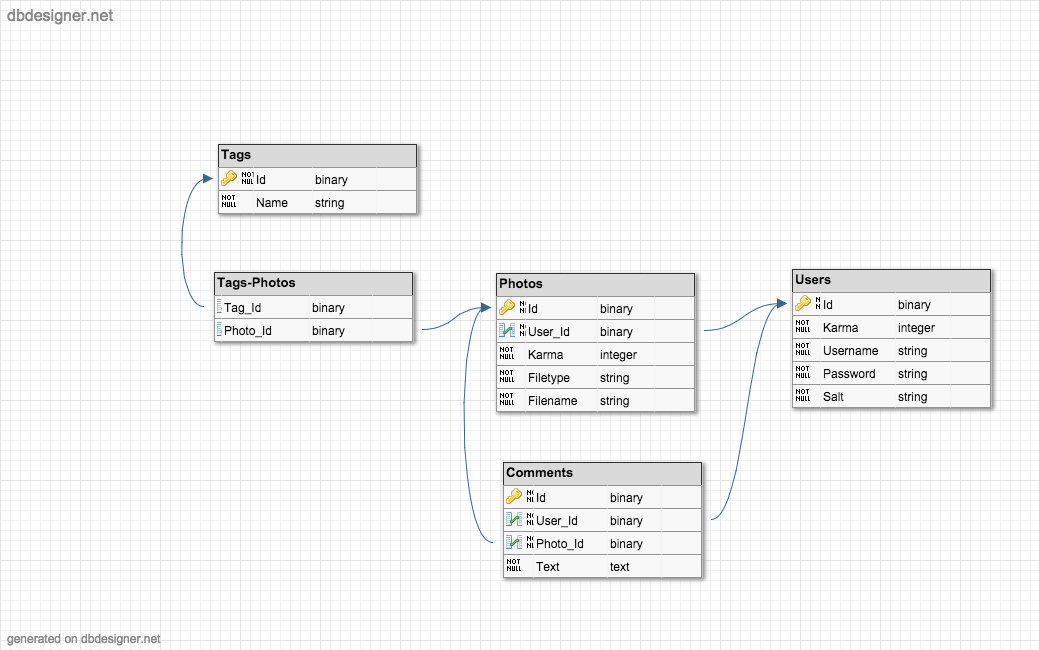
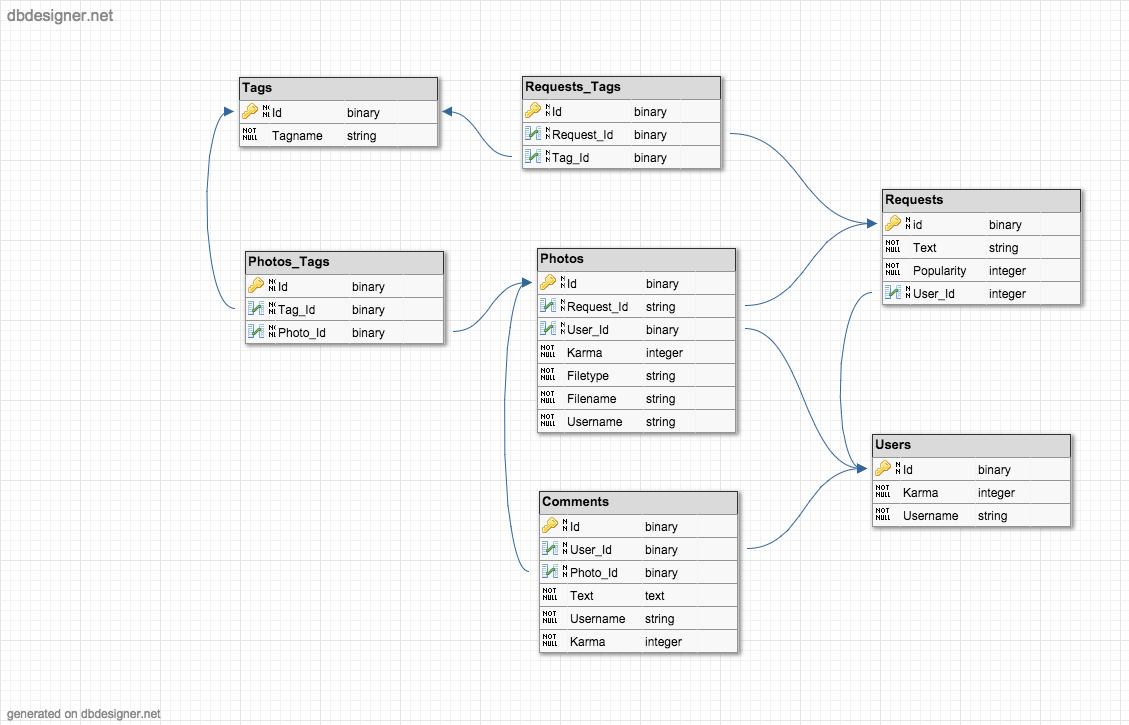
(feat) update database schema

diff --git a/server/db/config.js b/server/db/config.js
@@ -18,6 +18,7 @@ db.knex.schema.hasTable('users').then(function(exists) {
     db.knex.schema.createTable('users', function (user) {
       user.increments('id').primary();
       user.string('username', 100).unique();
+      user.integer('karma', 11);
       user.timestamps();
     }).then(function(table) {
       console.log('Created users table');
@@ -30,6 +31,7 @@ db.knex.schema.hasTable('requests').then(function(exists) {
     db.knex.schema.createTable('requests', function (request) {
       request.increments('id').primary();
       request.string('text', 255);
+      request.integer('popularity', 100);
       request.integer('user_id').unsigned().references('id').inTable('users');
       request.timestamps();
     }).then(function(table) {
@@ -45,11 +47,28 @@ db.knex.schema.hasTable('photos').then(function(exists) {
       photo.string('filename', 100);
       photo.string('filetype', 100);
       photo.string('username', 100);
+      photo.integer('karma', 11);
       photo.integer('user_id').unsigned().references('id').inTable('users');
       photo.integer('request_id').unsigned().references('id').inTable('requests');
       photo.timestamps();
     }).then(function(table) {
       console.log('Created photos table');
+    });
+  }
+});
+
+db.knex.schema.hasTable('comments').then(function(exists) {
+  if (!exists) {
+    db.knex.schema.createTable('comments', function (comment) {
+      comment.increments('id').primary();
+      comment.string('text', 255);
+      comment.string('username', 100);
+      comment.integer('karma', 11);
+      comment.integer('user_id').unsigned().references('id').inTable('users');
+      comment.integer('photo_id').unsigned().references('id').inTable('photos');
+      comment.timestamps();
+    }).then(function(table) {
+      console.log('Created comments table');
     });
   }
 });

diff --git a/server/db/models/comment.js b/server/db/models/comment.js
@@ -1,0 +1,16 @@
+var db = require('../config');
+require('./user');
+require('./photo');
+
+var Comment = db.Model.extend({
+  tableName: 'comments',
+  hasTimestamps: true,
+  user: function () {
+    return this.belongsTo('User');
+  },
+  photo: function() {
+    return this.belongsTo('Photo');
+  }
+});
+
+module.exports = db.model('Comment', Comment);
